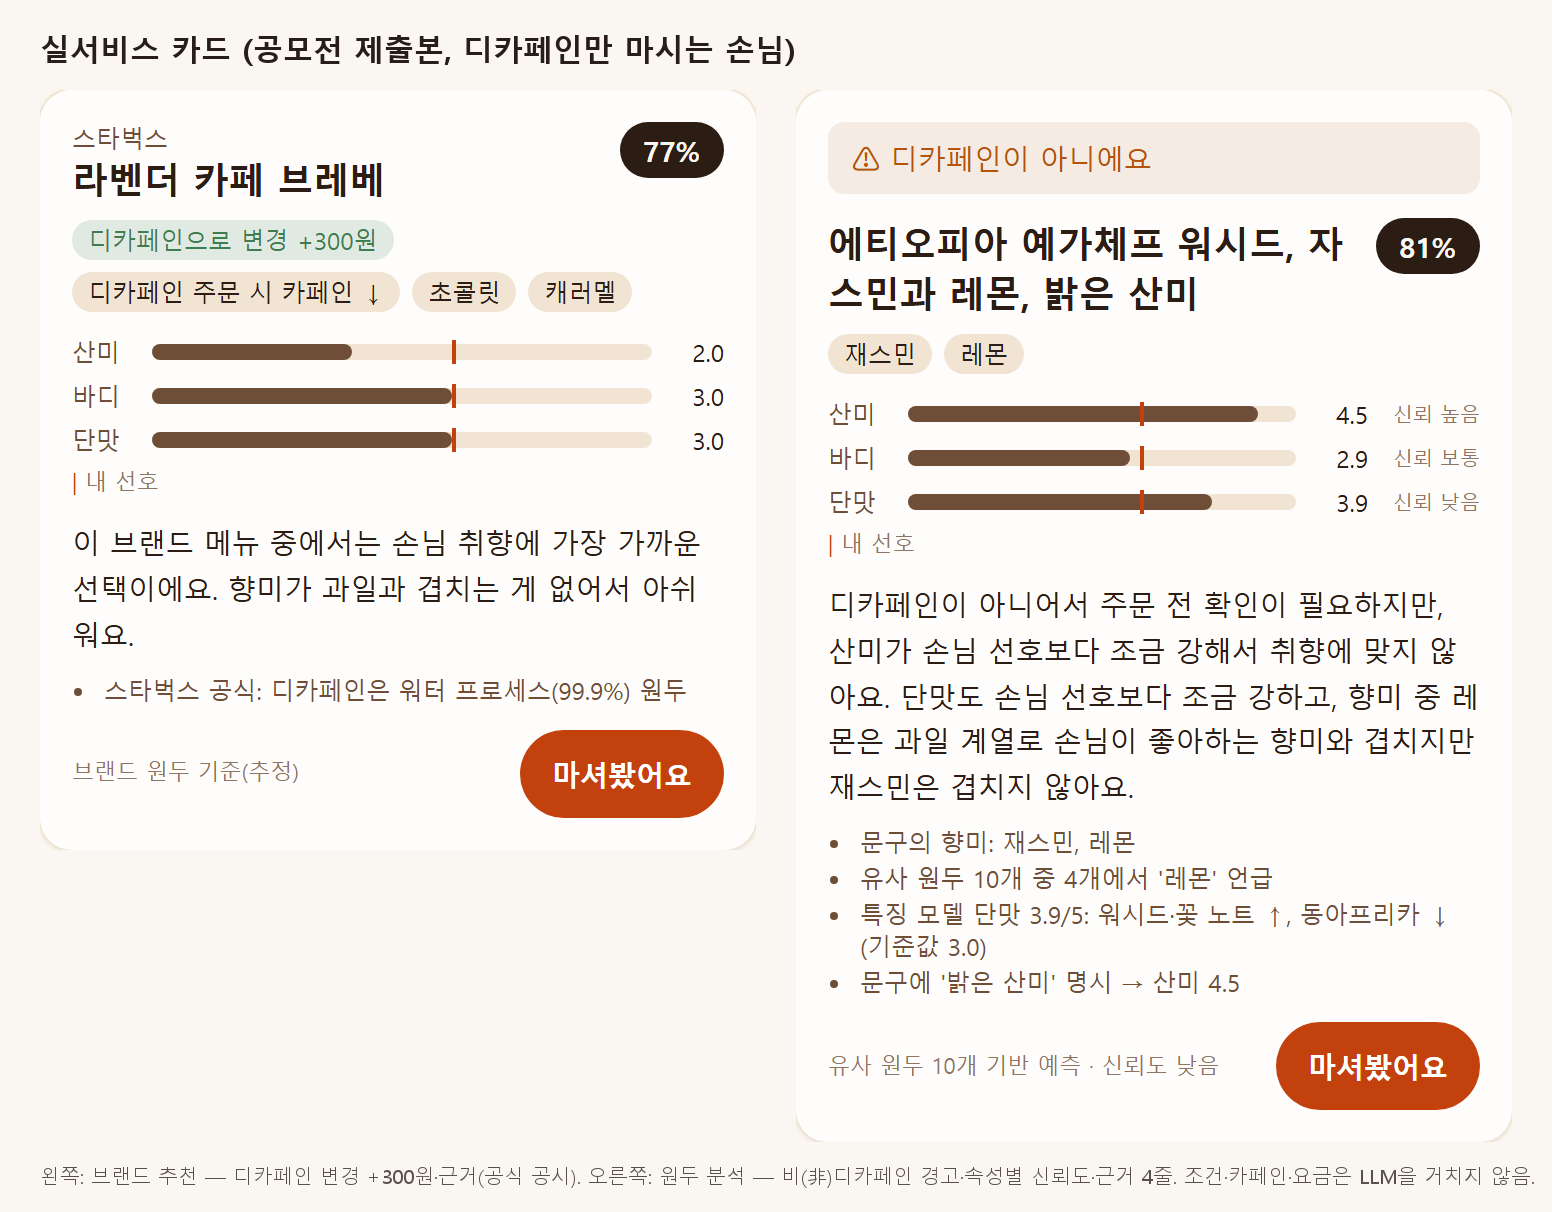
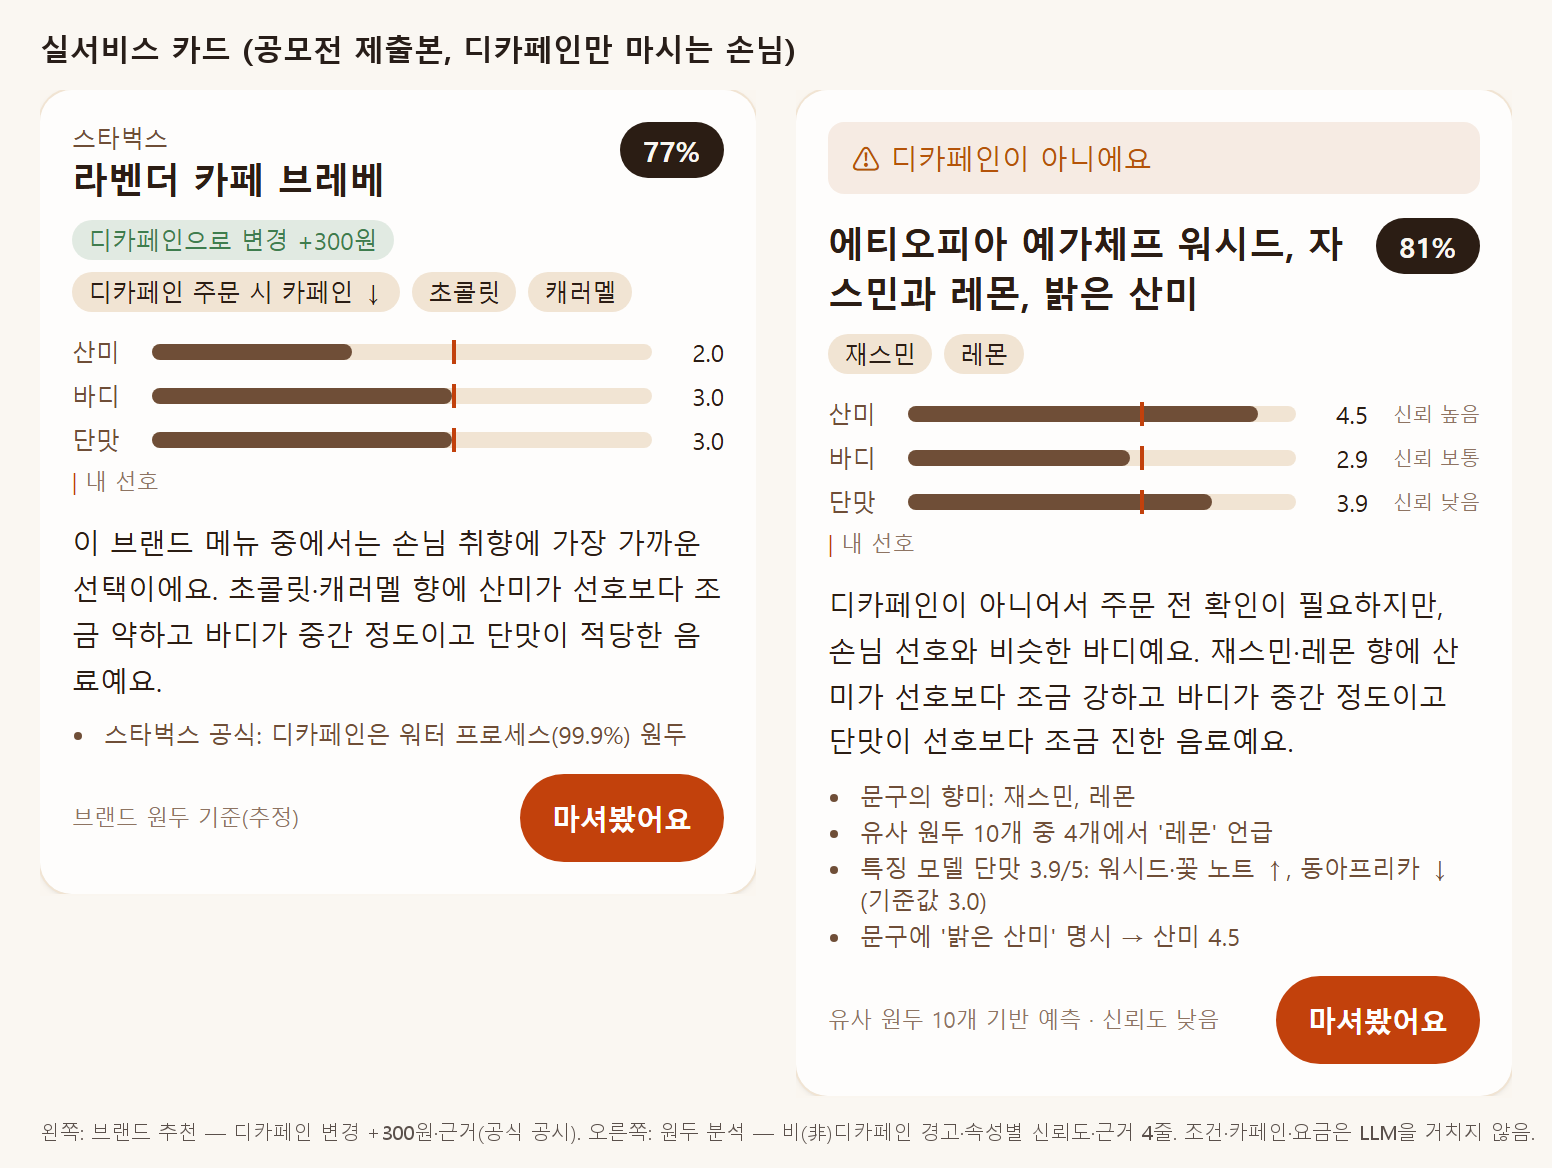
docs(competition): 05 카드 이미지를 5차 설명으로 재촬영 — 코드가 만든 맛 한 줄
Claude-Session: https://claude.ai/code/session_01RNMVqK4ExyuYrxuAd2885V

diff --git a/docs/competition/data-recipe-draft.md b/docs/competition/data-recipe-draft.md
@@ -219,7 +219,7 @@
 
    ![제출본 사이트의 추천 카드 2장](images/05_product_card.png)
 
-   "디카페인만 + 과일 향 선호" 손님으로 제출본 사이트(2026-09-28)에서 찍은 카드다. 왼쪽 스타벅스 카드는 디카페인 변경 추가요금(+300원)과 공식 공시 근거를, 오른쪽 원두 분석 카드는 "디카페인이 아니에요" 경고, 속성별 신뢰도(신뢰 높음·보통·낮음), 추정 근거 4줄(문구의 향미, 유사 원두, 특징 모델, 문구의 명시 표현)과 "유사 원두 10개 기반 예측 · 신뢰도 낮음"을 보여 준다. 막대의 빨간 선은 손님 취향이다. 설명 문장은 LLM이 쓰지만 맛 비교를 말로 풀어 넘기고 사후 검사를 거쳐, 숫자와 반대 방향이거나 내부 필드명이 섞이면 정해진 틀의 문장으로 바뀐다.
+   "디카페인만 + 과일 향 선호" 손님으로 제출본 사이트(2026-09-28)에서 찍은 카드다. 왼쪽 스타벅스 카드는 디카페인 변경 추가요금(+300원)과 공식 공시 근거를, 오른쪽 원두 분석 카드는 "디카페인이 아니에요" 경고, 속성별 신뢰도(신뢰 높음·보통·낮음), 추정 근거 4줄(문구의 향미, 유사 원두, 특징 모델, 문구의 명시 표현)과 "유사 원두 10개 기반 예측 · 신뢰도 낮음"을 보여 준다. 막대의 빨간 선은 손님 취향이다. 설명 둘째 문장("재스민·레몬 향에 산미가 선호보다 조금 강하고 바디가 중간 정도이고 단맛이 선호보다 조금 진한 음료예요")의 맛 표현은 코드가 데이터로 만든 것이고, LLM은 그 표현과 "맞는 점"을 이어 문장으로 쓴다. 숫자와 반대 방향이거나 내부 필드명이 섞이면 정해진 틀의 문장으로 바뀐다.
 
 ### B-7. 7단계 예상성과 및 활용방안
 - **성과지표(최대 3개, 보조설명 10자 이내 권장)**
